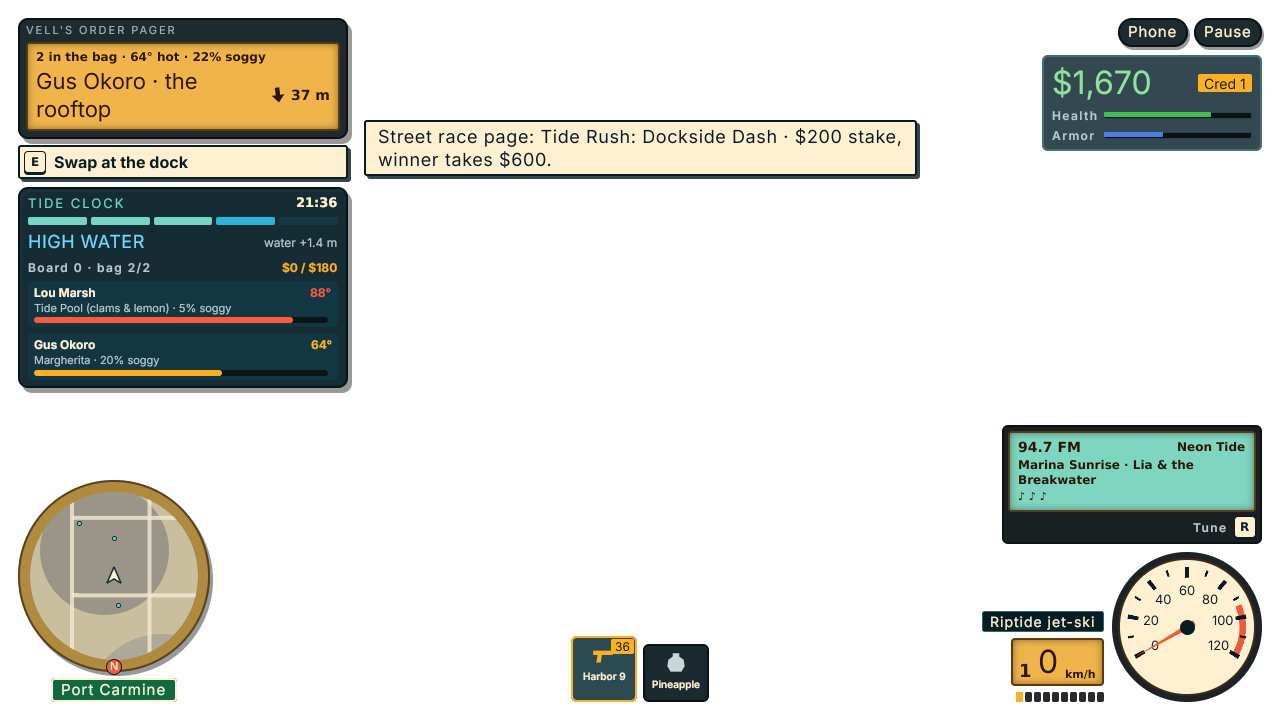
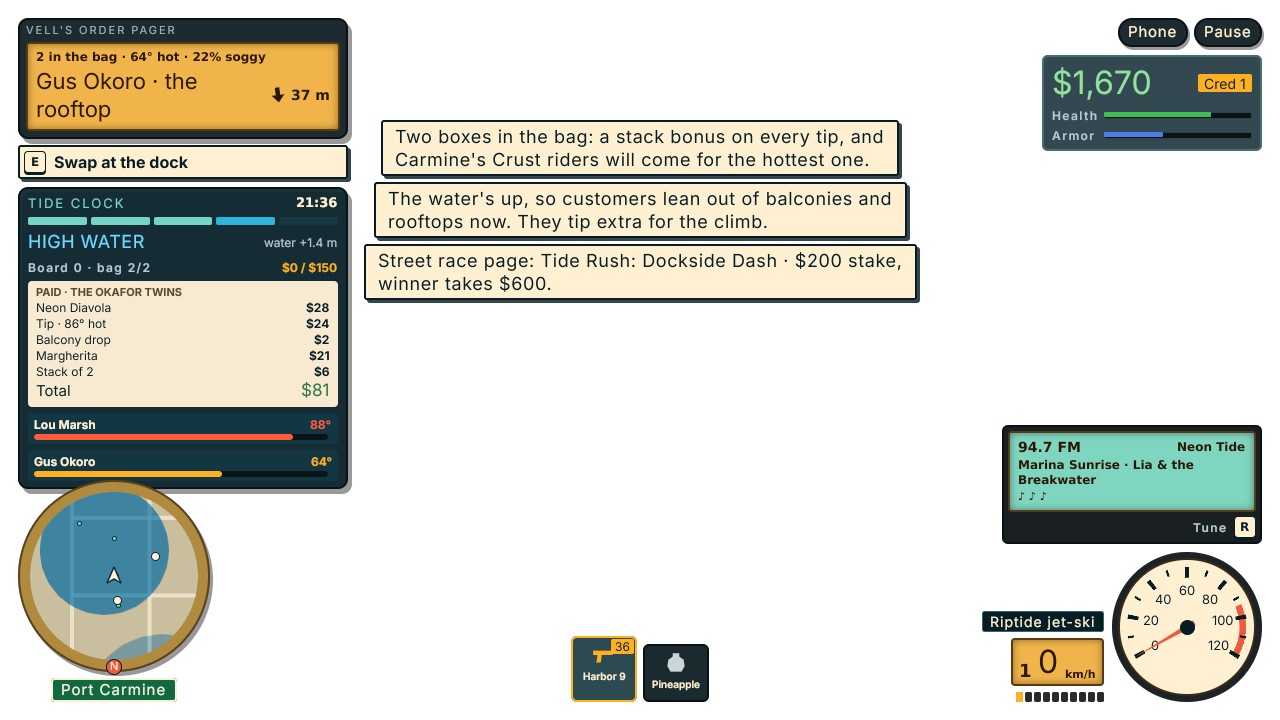
harbor-heat: the delivery slip on the tide card
For eight seconds after a hand-over the card shows who paid and each line:
the pies, the heat tip, the balcony or rooftop bonus and the stack bonus.

Claude-Session: https://claude.ai/code/session_013QRD1Uoma5dcaZMX6Wth29

Changed region(s): [[0.0, 0.1528, 0.7188, 0.8556], [0.0625, 0.8861, 0.125, 0.9167]]

diff --git a/games/harbor-heat/src/game/ui/ShiftUI.tsx b/games/harbor-heat/src/game/ui/ShiftUI.tsx
@@ -34,6 +34,8 @@ interface ShiftView {
   quota: number;
   water: string;
   bag: { id: string; who: string; pizza: string; heat: number; soak: number; cold: number }[];
+  /** The last delivery's slip while it is fresh: who, each line and the total. */
+  slip: { who: string; lines: { label: string; amount: number }[]; total: number } | null;
 }
 
 function shiftView(ctx: GameContext): ShiftView | null {
@@ -52,6 +54,9 @@ function shiftView(ctx: GameContext): ShiftView | null {
     takings: shift.takings,
     quota: nightlyQuota(shop),
     water: streetPlayOf(ctx).telemetry().water,
+    slip: shift.lastReceipt !== null && ctx.time.now() - (shift.lastReceipt.at ?? -99) < 8
+      ? { who: customerById(shift.lastReceipt.customerId)?.name ?? "", lines: shift.lastReceipt.lines, total: shift.lastReceipt.total }
+      : null,
     bag: shift.bag.map((order) => ({
       id: order.id,
       who: customerById(order.customerId)?.name ?? order.customerId,
@@ -131,13 +136,22 @@ export function ShiftPanel() {
         <Label color={HH.dim} text={view.open ? `Board ${view.board} · bag ${view.bag.length}/${view.capacity}` : "Vell's is closed"} />
         <Text size={12} weight={700} color={view.takings >= view.quota ? HH.cash : HH.amber} text={`${money(view.takings)} / ${money(view.quota)}`} />
       </Row>
+      {view.slip === null ? null : (
+        <RuneView gap={1} padding={[5, 8, 5, 8]} radius={4} fill={HH.paper}>
+          <Text size={11} weight={700} color="#5a4a30" text={`PAID · ${view.slip.who.toUpperCase()}`} />
+          {view.slip.lines.map((line, i) => (
+            <Row key={i} justify="between"><Text size={12} shrink color={HH.night} text={line.label} /><Text size={12} weight={700} color={line.amount < 0 ? HH.coral : HH.night} text={money(line.amount)} /></Row>
+          ))}
+          <Row justify="between"><Text family={DISPLAY} size={15} color={HH.night} text="Total" /><Text family={DISPLAY} size={17} color="#2f7a4f" text={money(view.slip.total)} /></Row>
+        </RuneView>
+      )}
       {view.bag.map((box) => (
         <RuneView key={box.id} gap={2} padding={[4, 6, 4, 6]} radius={4} fill="#123742">
           <Row justify="between" gap={6}>
             <Text size={12} weight={700} shrink color={HH.cream} text={box.who} />
             <Text size={12} weight={700} color={heatColor(box.heat)} text={`${box.heat}°`} />
           </Row>
-          <Text size={11} color={HH.dim} text={box.soak > 0 ? `${box.pizza} · ${box.soak}% soggy` : box.pizza} />
+          {view.slip !== null || view.bag.length > 2 ? null : <Text size={11} color={HH.dim} text={box.soak > 0 ? `${box.pizza} · ${box.soak}% soggy` : box.pizza} />}
           <Meter value={box.heat} color={box.heat < box.cold ? "#7fb6d9" : heatColor(box.heat)} width={meter - 12} />
         </RuneView>
       ))}

diff --git a/games/harbor-heat/proofs/runeUiFixture.tsx b/games/harbor-heat/proofs/runeUiFixture.tsx
@@ -60,6 +60,10 @@ async function renderFixture(state: HarborFixture, width: number, height: number
       ctx.scene.entity.setPose(ctx.player.userId, { position: [OVEN[0], ctx.world.groundHeightAt(OVEN[0], OVEN[1]), OVEN[1]] });
     }
     tick();
+    if (state === "shift") {
+      shiftStore.write(ctx, { ...shiftStore.read(ctx), lastReceipt: { customerId: "okafor_twins", floor: "balcony", thanks: "Hot! Tell Nonna the market says hi.", total: 81, at: ctx.time.now(),
+        lines: [{ label: "Neon Diavola", amount: 28 }, { label: "Tip · 86° hot", amount: 24 }, { label: "Balcony drop", amount: 2 }, { label: "Margherita", amount: 21 }, { label: "Stack of 2", amount: 6 }] } });
+    }
     if (state === "books") run("pizzeria.open");
     if (state === "shift-over") {
       shiftStore.write(ctx, { ...shiftStore.read(ctx), summary: { day: 2, delivered: 9, takings: 412, best: 96, lost: 1, quota: 360, metQuota: true, foreclosed: false, headline: "Quota made. MegaSlice's man left without a word." } });

diff --git a/games/harbor-heat/src/game/pizza/shift.ts b/games/harbor-heat/src/game/pizza/shift.ts
@@ -80,6 +80,8 @@ export interface DeliveryReceipt {
   total: number;
   thanks: string;
   floor: DropFloor;
+  /** Game time it landed, so the HUD shows the slip for a few seconds. */
+  at?: number;
 }
 
 export interface ShiftSummary {
@@ -467,7 +469,7 @@ function deliverHere(ctx: GameContext): void {
     delivered: state.delivered + handed.length,
     best: Math.max(state.best, total),
     idaDue: customerId === LIGHTHOUSE_KEEPER ? true : state.idaDue,
-    lastReceipt: { customerId, lines, total, thanks, floor },
+    lastReceipt: { customerId, lines, total, thanks, floor, at: ctx.time.now() },
   });
   ctx.scene.entity.floatText({ instanceId: ctx.player.userId, text: `+$${total}`, kind: "loot" });
   // The customer's line floats up from their door, the box burst in the shop's colours.
